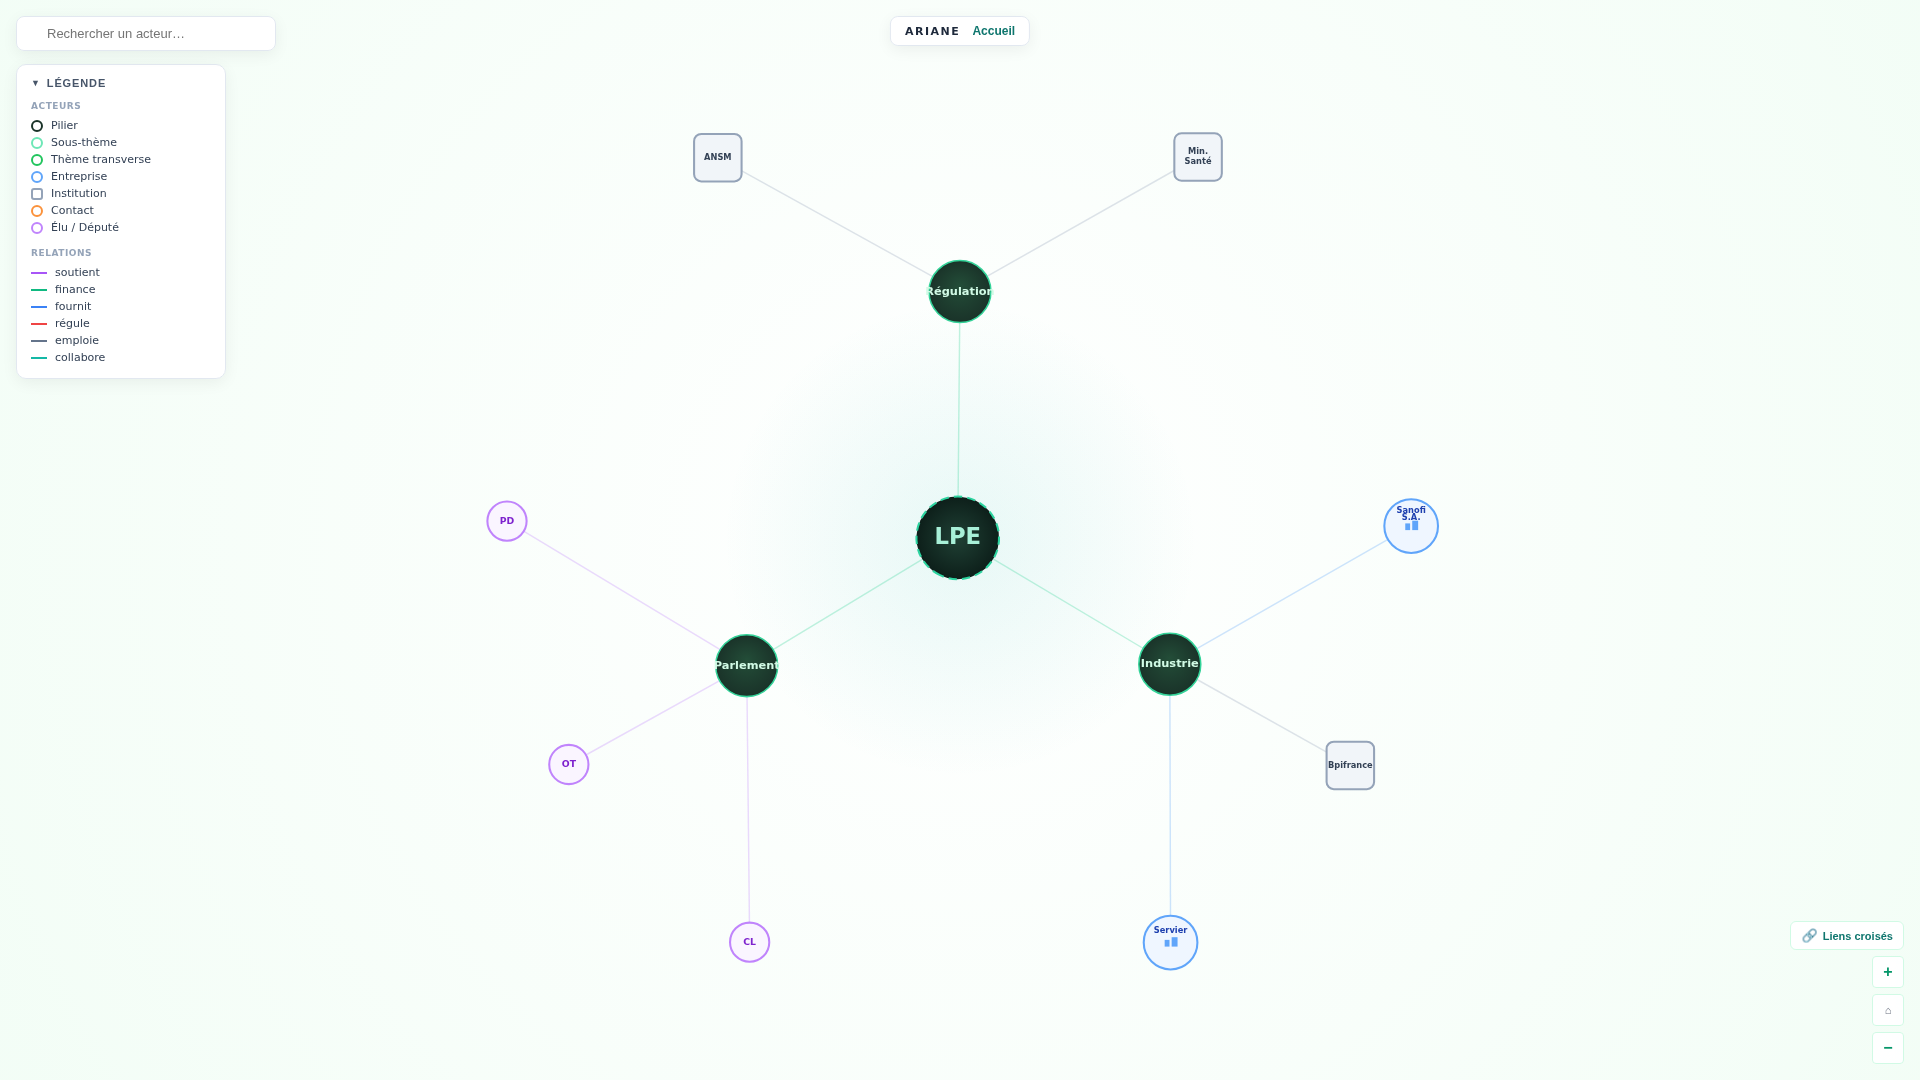
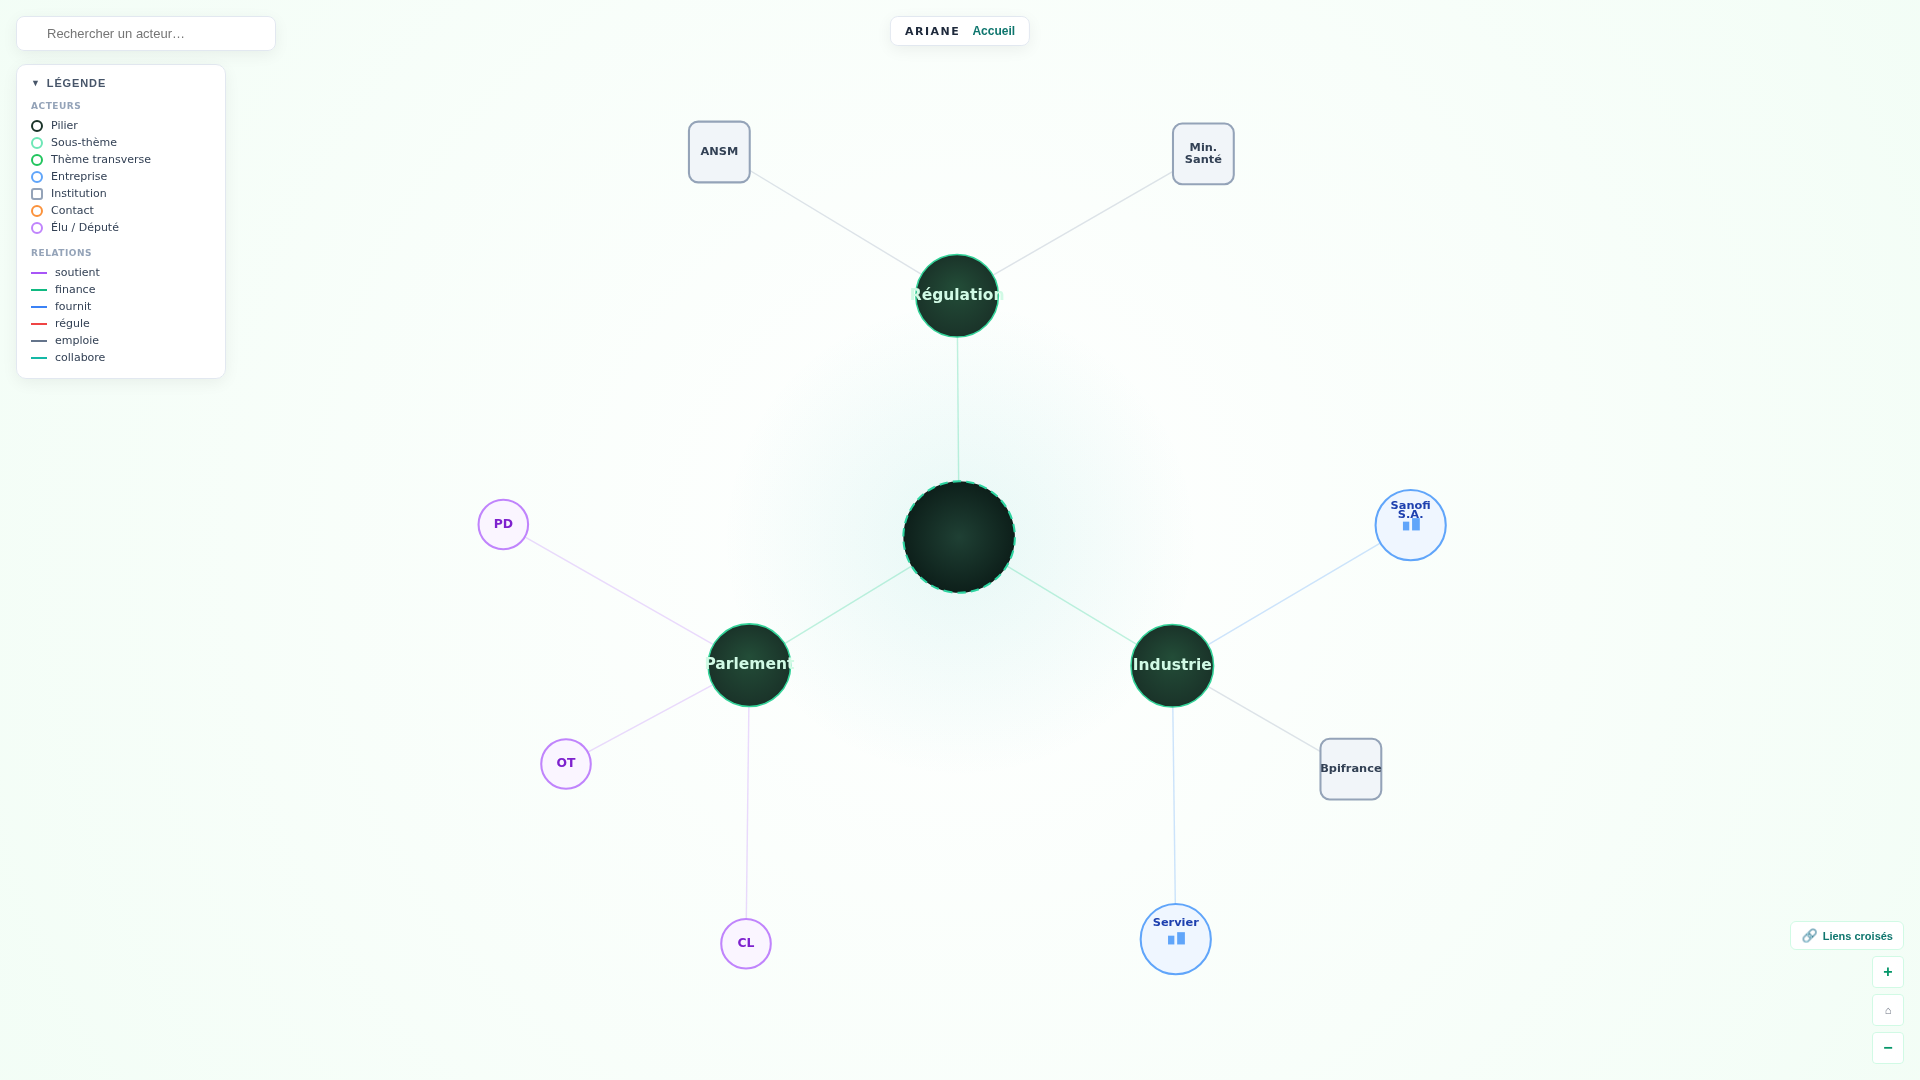
fix: supprime texte LPE du hub, agrandit tous les noeuds
- Hub : cercle decoratif sans texte (plus epure, moins institutionnel)
- NODE_RADIUS +25-35% : hub 40->54, pilier 30->40, company 26->34,
  person/elu 18-19->24, institution 25->32, subtheme 22->28
- Screenshots pitch deck regeneres a 1920x1080

https://claude.ai/code/session_01JWJYd5yJQuEZ1iS5xA6wHw

diff --git a/src/constellation/ConstellationCanvas.tsx b/src/constellation/ConstellationCanvas.tsx
@@ -413,11 +413,7 @@ export function ConstellationCanvas({ data, scopeId, selectedId, macroMode, onNo
         ctx.stroke();
         ctx.setLineDash([]);
         ctx.restore();
-        ctx.fillStyle = COLORS.hubText;
-        ctx.font = `bold ${Math.round(finalR * 0.55)}px system-ui, sans-serif`;
-        ctx.textAlign = 'center';
-        ctx.textBaseline = 'middle';
-        ctx.fillText('LPE', 0, 0);
+        // No label inside hub — pure decorative circle
 
       } else if (n.type === 'pillar') {
         const pGrad = ctx.createRadialGradient(0, -finalR * 0.2, 0, 0, 0, finalR);

diff --git a/src/constellation/colors.ts b/src/constellation/colors.ts
@@ -58,14 +58,14 @@ export const COLORS = {
 };
 
 export const NODE_RADIUS: Record<string, number> = {
-  hub: 40,
-  pillar: 30,
-  subtheme: 22,
-  indie: 24,
-  company: 26,
-  person: 18,
-  elu: 19,
-  institution: 25,
+  hub: 54,
+  pillar: 40,
+  subtheme: 28,
+  indie: 30,
+  company: 34,
+  person: 24,
+  elu: 24,
+  institution: 32,
 };
 
 // Human-readable labels per node type (for legend + panels).
